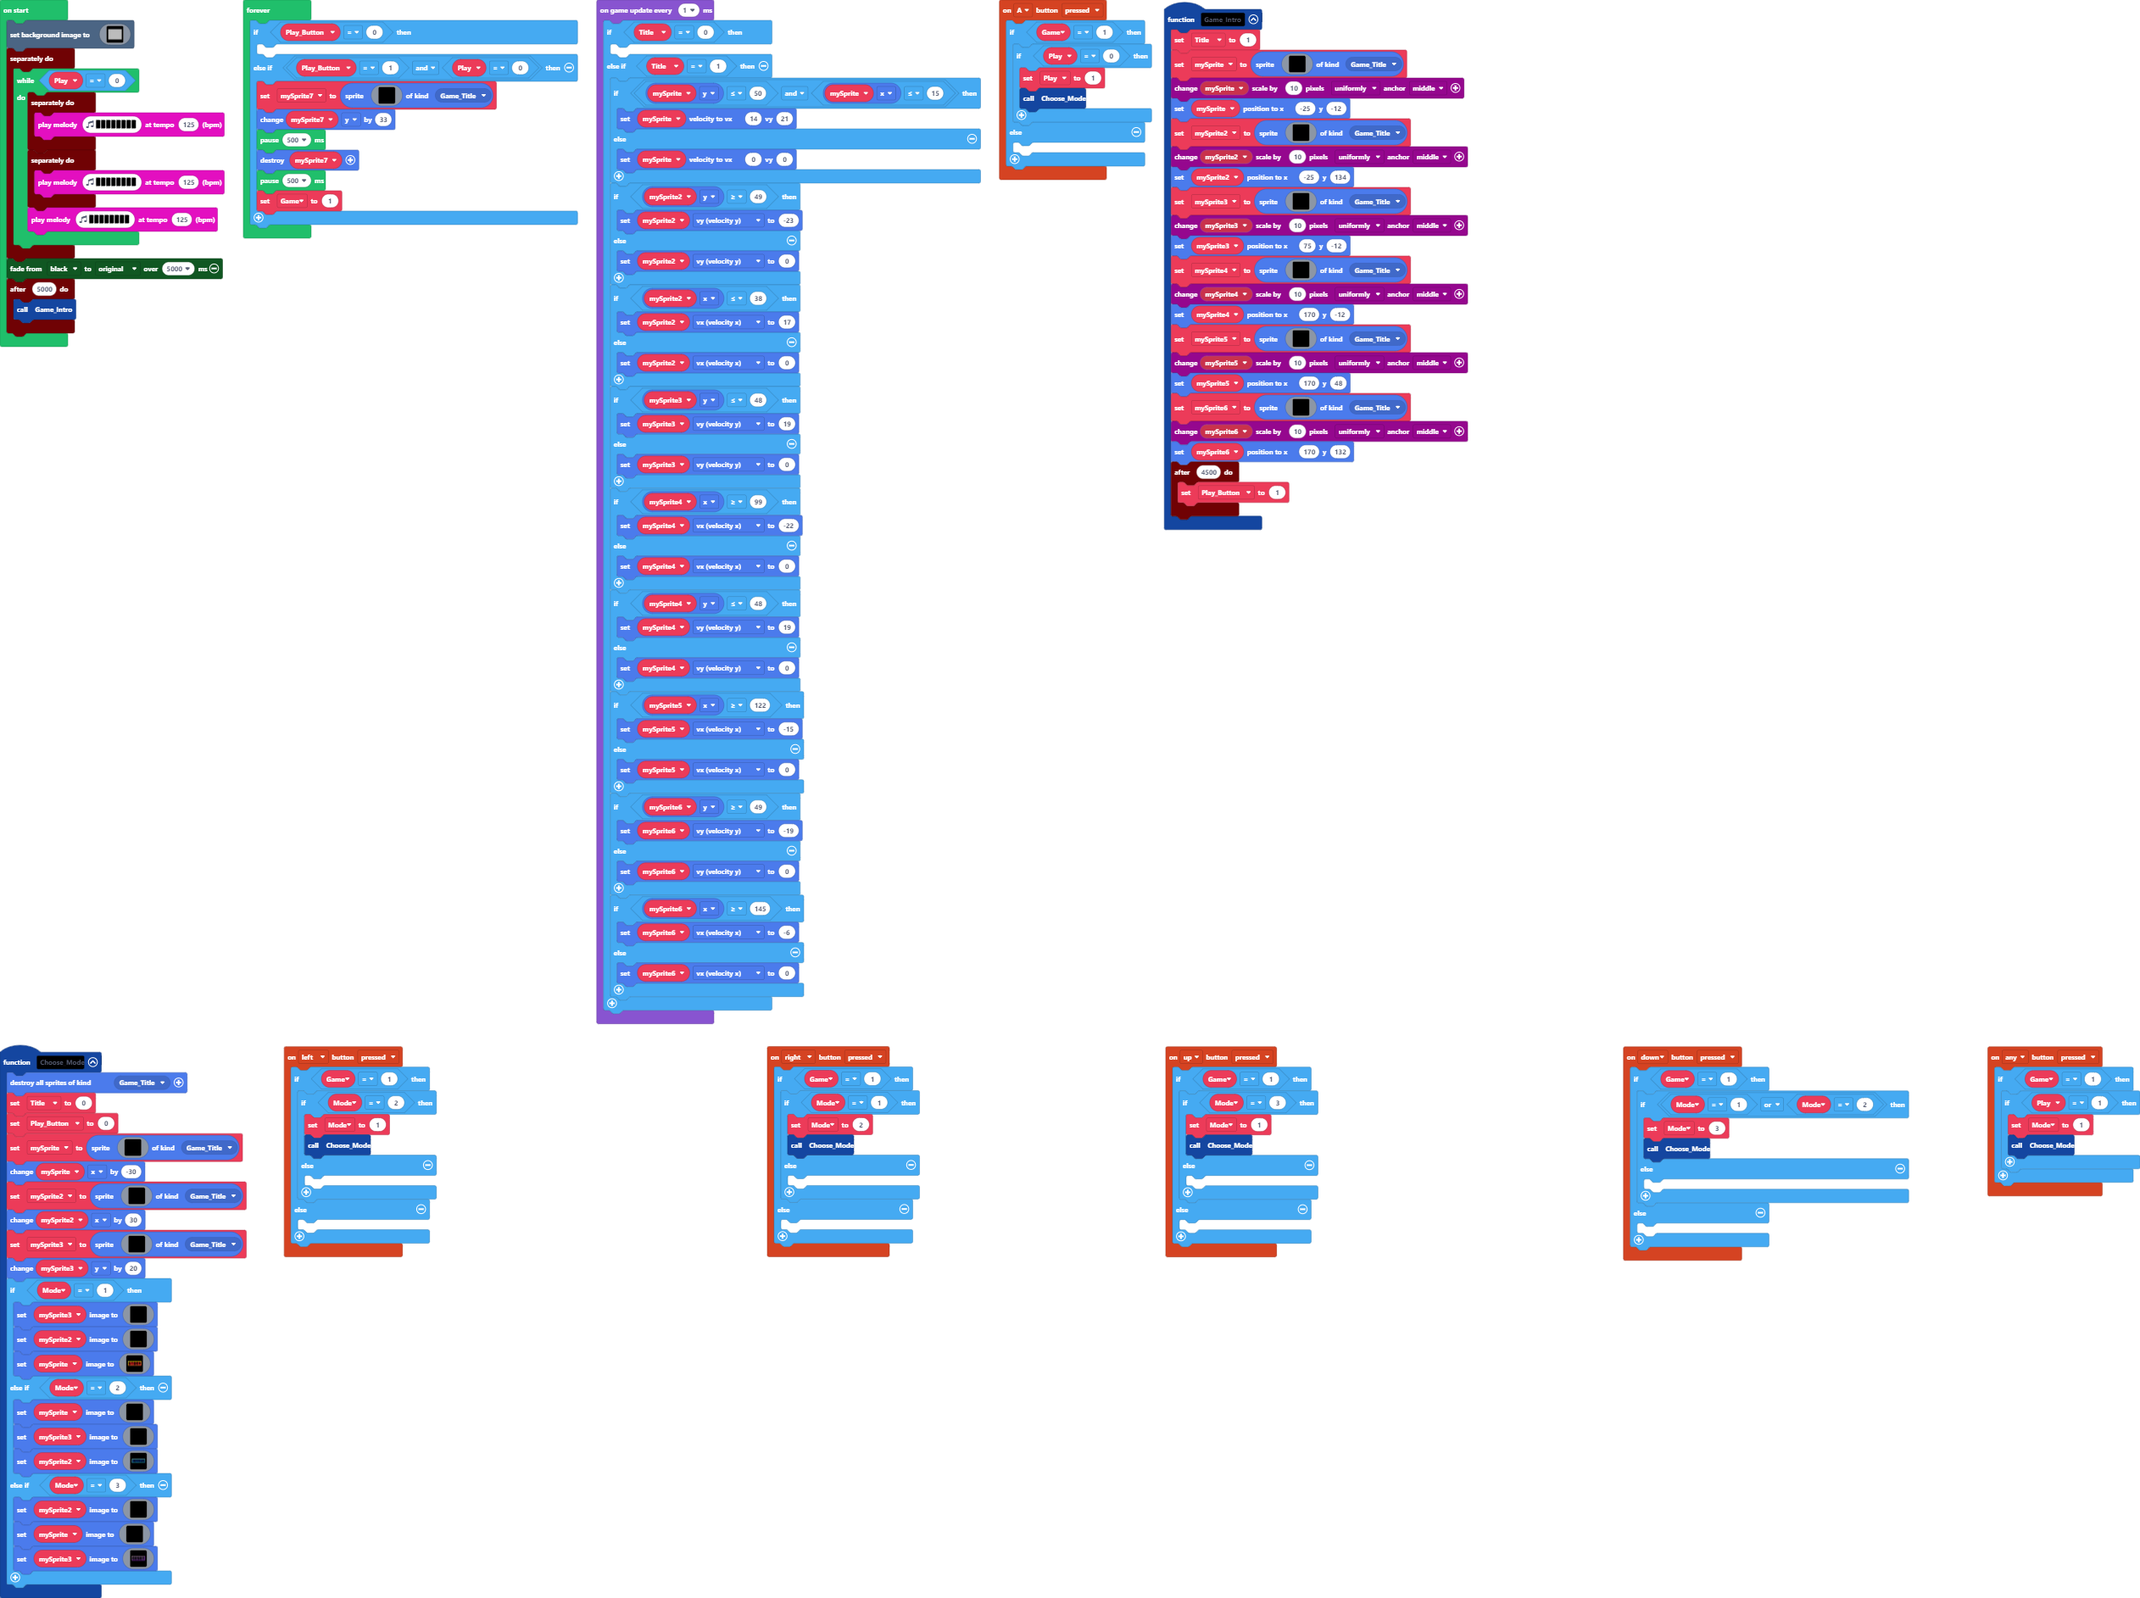
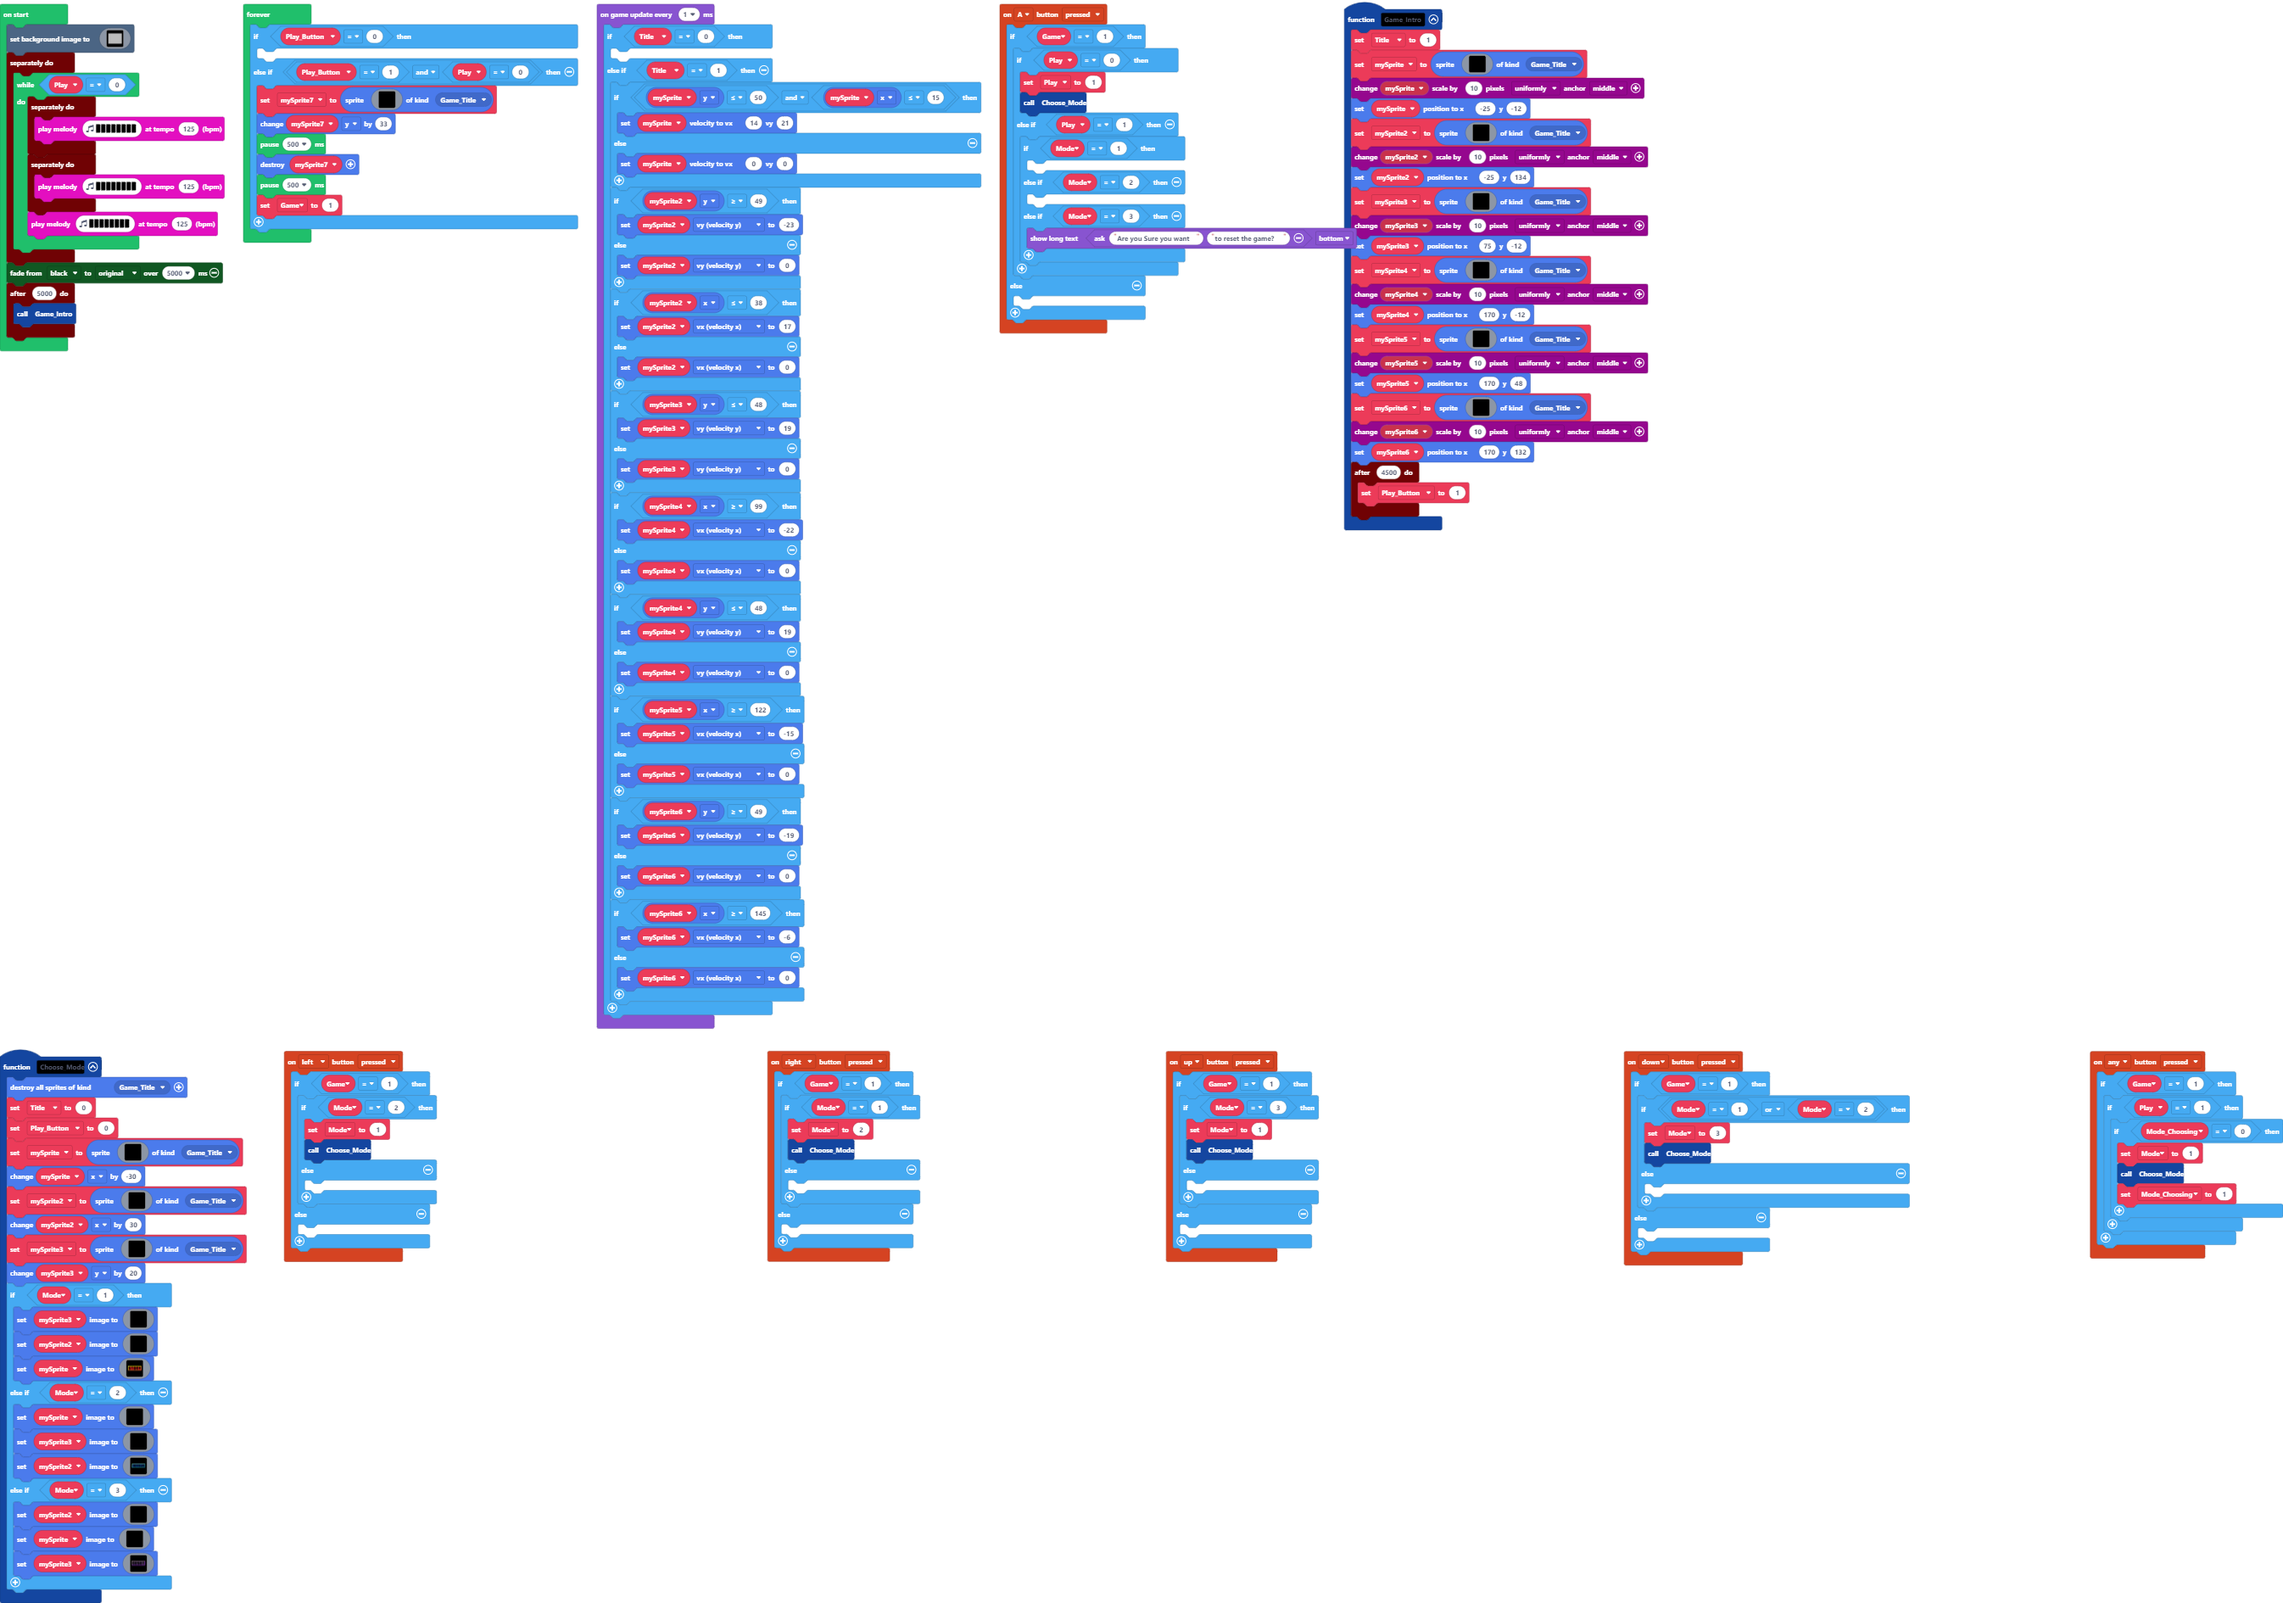
Update main.blocks, main.ts

diff --git a/main.ts b/main.ts
@@ -17,8 +17,11 @@ controller.up.onEvent(ControllerButtonEvent.Pressed, function () {
 controller.anyButton.onEvent(ControllerButtonEvent.Pressed, function () {
     if (Game == 1) {
         if (Play == 1) {
-            Mode = 1
-            Choose_Mode()
+            if (Mode_Choosing == 0) {
+                Mode = 1
+                Choose_Mode()
+                Mode_Choosing = 1
+            }
         }
     }
 })
@@ -27,6 +30,14 @@ controller.A.onEvent(ControllerButtonEvent.Pressed, function () {
         if (Play == 0) {
             Play = 1
             Choose_Mode()
+        } else if (Play == 1) {
+            if (Mode == 1) {
+            	
+            } else if (Mode == 2) {
+            	
+            } else if (Mode == 3) {
+                game.showLongText(game.ask("Are you Sure you want", "to reset the game?"), DialogLayout.Bottom)
+            }
         }
     } else {
     	
@@ -407,6 +418,7 @@ let mySprite3: Sprite = null
 let mySprite2: Sprite = null
 let mySprite: Sprite = null
 let Title = 0
+let Mode_Choosing = 0
 let Mode = 0
 let Game = 0
 let Play = 0
